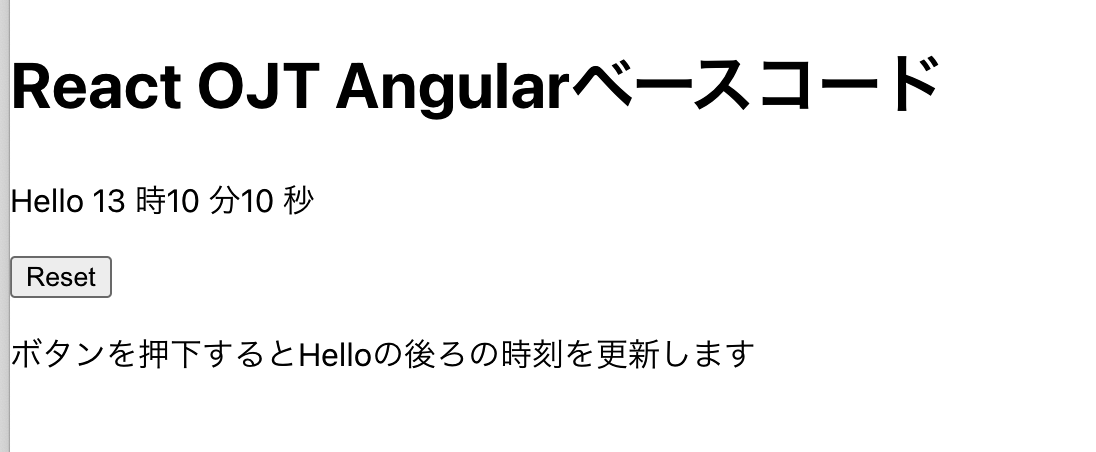
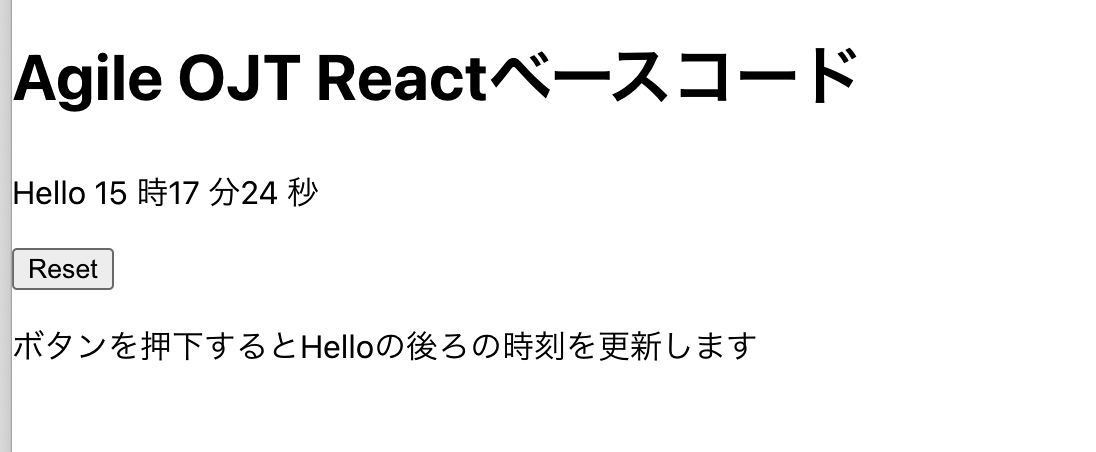
Homeの画面キャプチャ差替

diff --git a/src/Home.js b/src/Home.js
@@ -24,7 +24,7 @@ export default function HomeApp() {
   // コンポーネントの描画
   return (
     <div>
-      <h1>React OJT Angularベースコード</h1>
+      <h1>Agile OJT Reactベースコード</h1>
       <p>
         Hello { now }
       </p>

diff --git a/README.md b/README.md
@@ -1,4 +1,4 @@
-# React OJT Angular ベースコード
+# Agile OJT React ベースコード
 
 ## 目次
 - 概要
